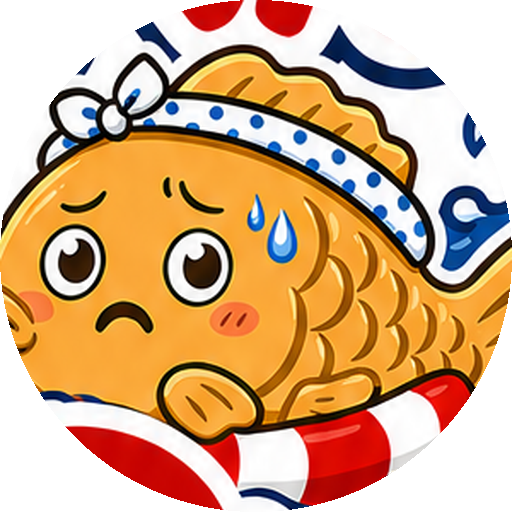
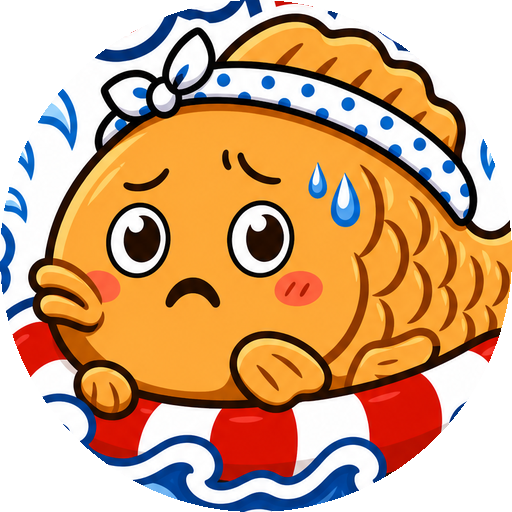
正式なロゴに差し替え
- images/男子2階＿ロゴ.png から外側の白地を透過にしたロゴを public/brand/logo.png に
- ヘッダー用の丸アイコン・favicon もロゴのキャラクターから作り直し
- 呼び出し表示: ロゴが円形・透過になったので白いカードをやめ、紺地に直接置く

diff --git a/src/app/display/DisplayScreen.tsx b/src/app/display/DisplayScreen.tsx
@@ -62,16 +62,14 @@ export function DisplayScreen() {
     <div className="bg-seigaiha flex min-h-dvh flex-1 flex-col text-white">
       <ConnectionBanner error={orders.error} />
       <main className="mx-auto flex w-full max-w-7xl flex-1 flex-col gap-5 p-4 md:p-6">
-        <div className="mx-auto w-full max-w-[min(100%,34rem)] xl:max-w-[42rem] rounded-[2rem] bg-white p-2 shadow-[0_0.5rem_0_rgb(0_0_0/0.3)]">
-          <Image
-            src="/brand/logo.png"
-            alt="およげない！たいやきくん"
-            width={900}
-            height={525}
-            priority
-            className="h-auto w-full rounded-[1.6rem]"
-          />
-        </div>
+        <Image
+          src="/brand/logo.png"
+          alt="およげない！たいやきくん"
+          width={752}
+          height={799}
+          priority
+          className="mx-auto h-auto w-[min(62vw,18rem)] drop-shadow-[0_0.5rem_0_rgb(0_0_0/0.35)] md:w-[20rem] xl:w-[22rem]"
+        />
 
         <section aria-labelledby="ready-heading" className="flex flex-1 flex-col">
           <h1
